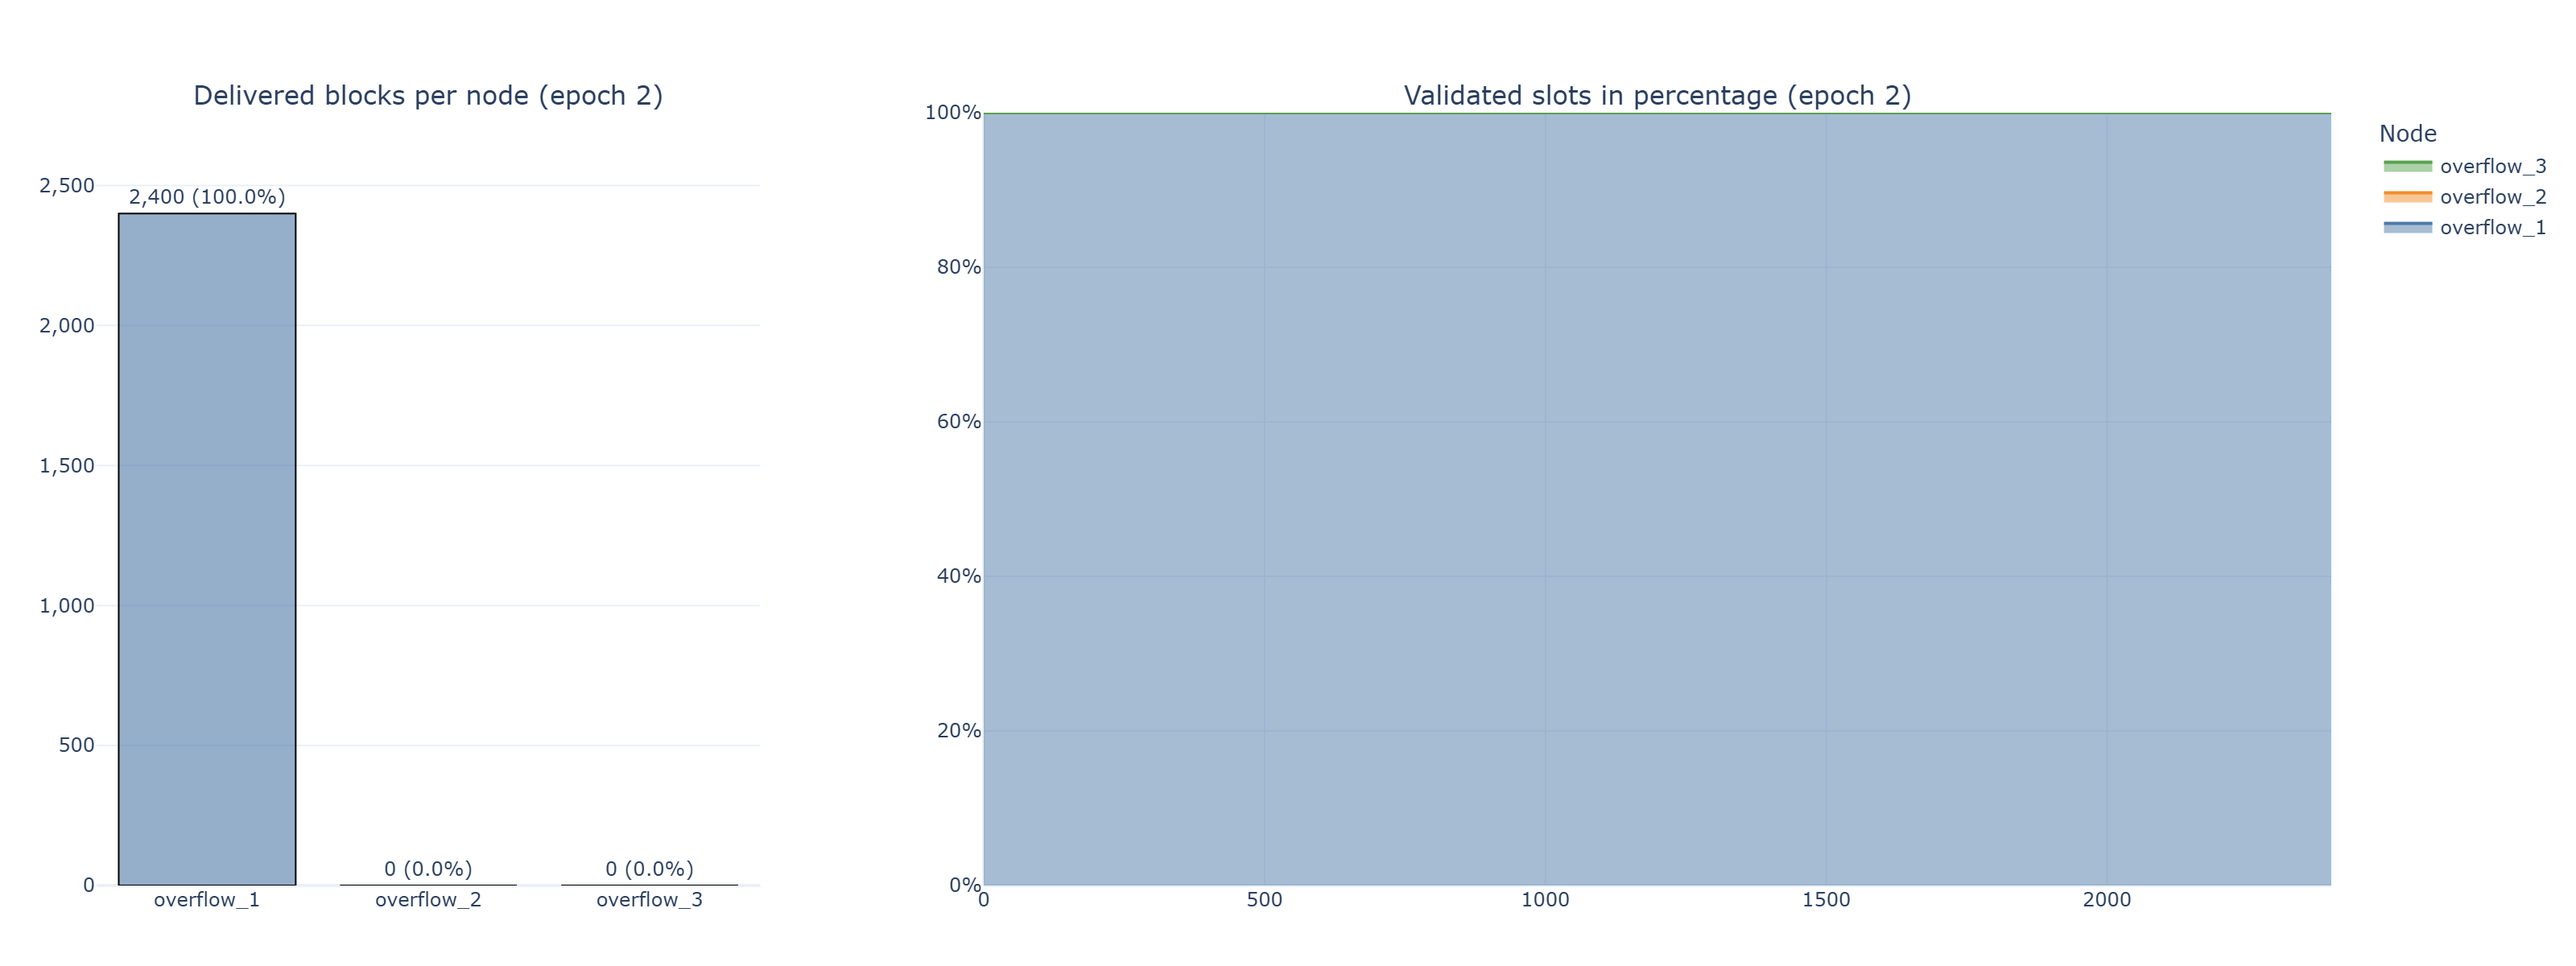
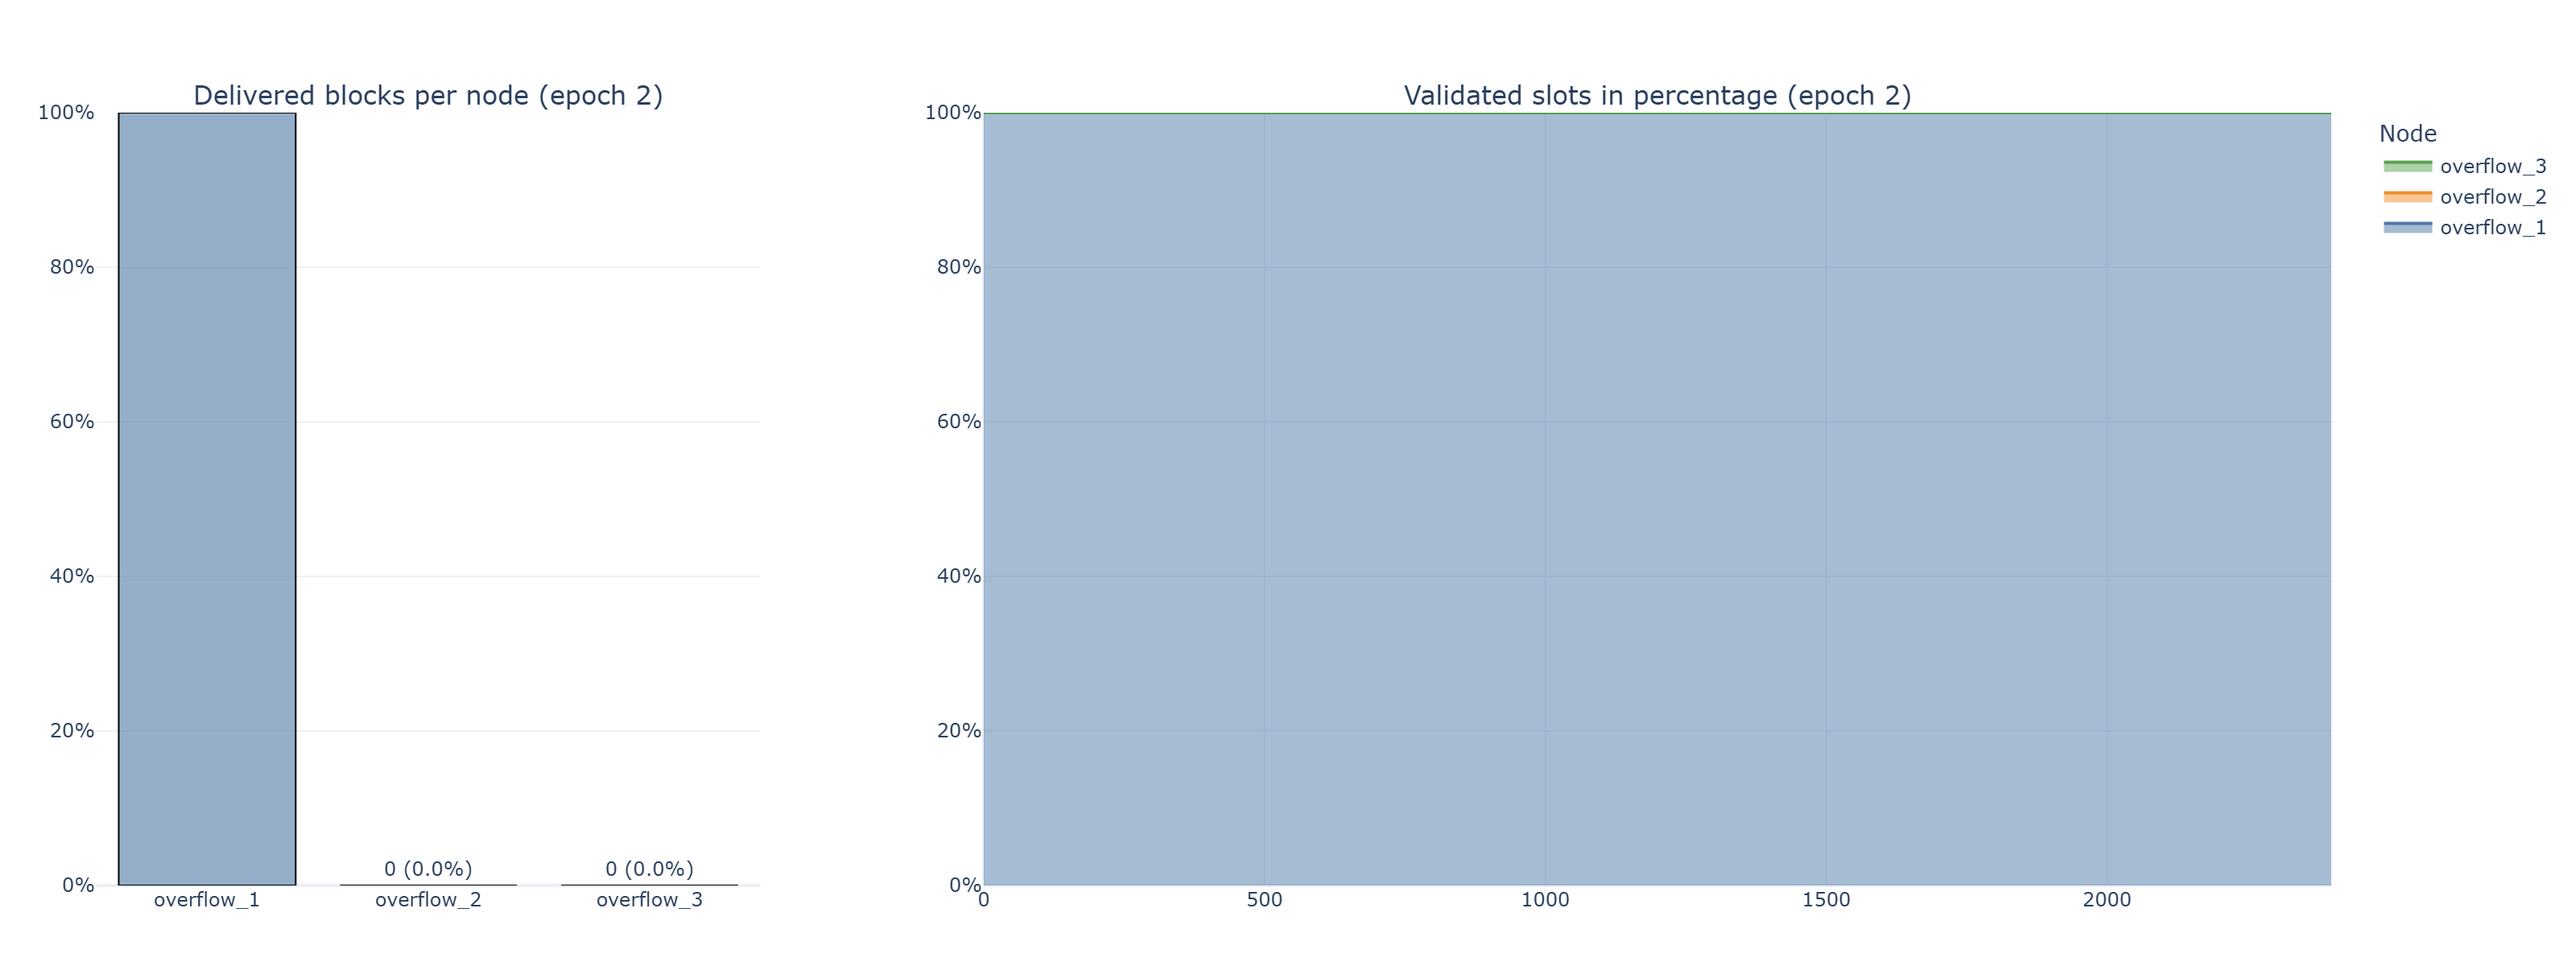
correct scale for the two plots

Changed region(s): [[0.0, 0.0925, 0.125, 0.2467], [0.0, 0.74, 0.0312, 0.7708]]

diff --git a/analyze_takamaka.py b/analyze_takamaka.py
@@ -8,7 +8,7 @@ import matplotlib.colors as mcolors  # HEX -> RGBA
 # =========================
 # Config
 # =========================
-FILENAME   = "three.state"
+FILENAME   = "one.state"
 OUTPUT_DIR = "output"
 MAX_SLOT   = 2399
 
@@ -39,13 +39,13 @@ PALETTE = ["#4E79A7", "#F28E2B", "#59A14F", "#E15759", "#76B7B2", "#EDC948"]
 BAR_TRSP = ["rgba(78,121,167,0.60)", "rgba(242,142,43,0.60)", "rgba(89,161,79,0.60)"]
 
 # ===== Stake static values (example @ epoch=2, slot=800) =====
-STAKE_EPOCH = 2
+STAKE_EPOCH = 1
 STAKE_SLOT  = 799
 # Put stake for mains here; missing mains default to 0
 STAKE_RAW = {
-    "Be2ntZsJLQ0Kmp_KRv-281k-x5pWqnuUNNzFqsi35lQ.": 39_720_005_019_933_334,
-    "TgLaccJovUQPjgNcU1ZsS-tYrYnuNTRtjLdVvAqg3kI.": 29_820_802_299_333_335,
-    "Lb5sLN6alt5KcdMNE74onoOuQL8Y0eYgGZKqDOAUSTU.": 29_676_465_760_160_400,
+    "Be2ntZsJLQ0Kmp_KRv-281k-x5pWqnuUNNzFqsi35lQ.": 98_999_369_600_301_776,
+    "TgLaccJovUQPjgNcU1ZsS-tYrYnuNTRtjLdVvAqg3kI.": 0,
+    "Lb5sLN6alt5KcdMNE74onoOuQL8Y0eYgGZKqDOAUSTU.": 0,
 }
 
 # =========================
@@ -133,18 +133,19 @@ def build_summary_figure(state: dict) -> go.Figure:
     # --- Delivered blocks (overflows) ---
     op_epoch  = state.get("operationalRecord", {}).get(epoch_str, {})
     overflows = op_epoch.get("urlOverflowCounter", {}) or {}
-    bar_vals  = [int(overflows.get(a, {}).get("deliveredBlocks", 0)) for a in OVERFLOW_ADDRS]
+    raw_vals  = [int(overflows.get(a, {}).get("deliveredBlocks", 0)) for a in OVERFLOW_ADDRS]
     bar_names = [LABEL[a] for a in OVERFLOW_ADDRS]
-    total_deliv = max(sum(bar_vals), 1)
-    perc_text   = [f"{v:,.0f} ({v/total_deliv:.1%})" for v in bar_vals]
-    bar_colors  = [hex_to_rgba(PALETTE[i], 0.6) for i in range(3)]
+    total_deliv = max(sum(raw_vals), 1)
+
+    bar_vals   = [v / total_deliv for v in raw_vals]
+    perc_text  = [f"{v:,.0f} ({v/total_deliv:.1%})" for v in raw_vals]
+    bar_colors = [hex_to_rgba(PALETTE[i], 0.6) for i in range(3)]
 
     # --- Validated slots cumulative share (overflows) ---
     addr_to_slots = state.get("currentEpochSlotDistribution", {}) or {}
     T = MAX_SLOT + 1
     x = np.arange(T)
 
-    # Build indicators only for overflow list (zeros if missing)
     indicators = []
     for addr in OVERFLOW_ADDRS:
         slots = [s for s in addr_to_slots.get(addr, []) if 0 <= s <= MAX_SLOT]
@@ -152,11 +153,11 @@ def build_summary_figure(state: dict) -> go.Figure:
         if slots:
             v[slots] = 1
         indicators.append(v)
-    indicators = np.vstack(indicators)  # shape (3, T)
+    indicators = np.vstack(indicators)
 
-    cum_by_node = indicators.cumsum(axis=1)        # (3, T)
+    cum_by_node = indicators.cumsum(axis=1)
     cum_total   = cum_by_node.sum(axis=0)
-    cum_total   = np.where(cum_total == 0, 1, cum_total)  # avoid /0
+    cum_total   = np.where(cum_total == 0, 1, cum_total)
     shares      = cum_by_node / cum_total
 
     # --- Subplots ---
@@ -167,20 +168,20 @@ def build_summary_figure(state: dict) -> go.Figure:
         column_widths=[0.33, 0.67]
     )
 
-    # Bars (left)
+    # Bars
     fig.add_trace(
         go.Bar(
             x=bar_names, y=bar_vals,
             marker=dict(color=bar_colors, line=dict(width=1, color="black")),
             text=perc_text, textposition="outside",
-            hovertemplate="%{x}<br>Blocks: %{y:,.0f}<br>Share: %{customdata:.1%}<extra></extra>",
-            customdata=[v/total_deliv for v in bar_vals],
+            hovertemplate="%{x}<br>Blocks: %{customdata:,}<br>Share: %{y:.1%}<extra></extra>",
+            customdata=raw_vals,
             showlegend=False,
         ),
         row=1, col=1
     )
 
-    # Area (right)
+    # Area
     for i, addr in enumerate(OVERFLOW_ADDRS):
         name = LABEL[addr]
         line_color = PALETTE[i]
@@ -203,11 +204,13 @@ def build_summary_figure(state: dict) -> go.Figure:
         legend_title_text="Node",
         margin=dict(l=60, r=40, t=70, b=50),
     )
-    ymax = max(bar_vals) if any(bar_vals) else 1
-    fig.update_yaxes(range=[0, ymax * 1.15], tickformat=",", row=1, col=1)
+
+    fig.update_yaxes(range=[0, 1], tickformat=".0%", row=1, col=1)
     fig.update_yaxes(range=[0, 1], tickformat=".0%", row=1, col=2)
     fig.update_xaxes(range=[0, MAX_SLOT], row=1, col=2)
+
     return fig
+
 
 # =========================
 # Run
